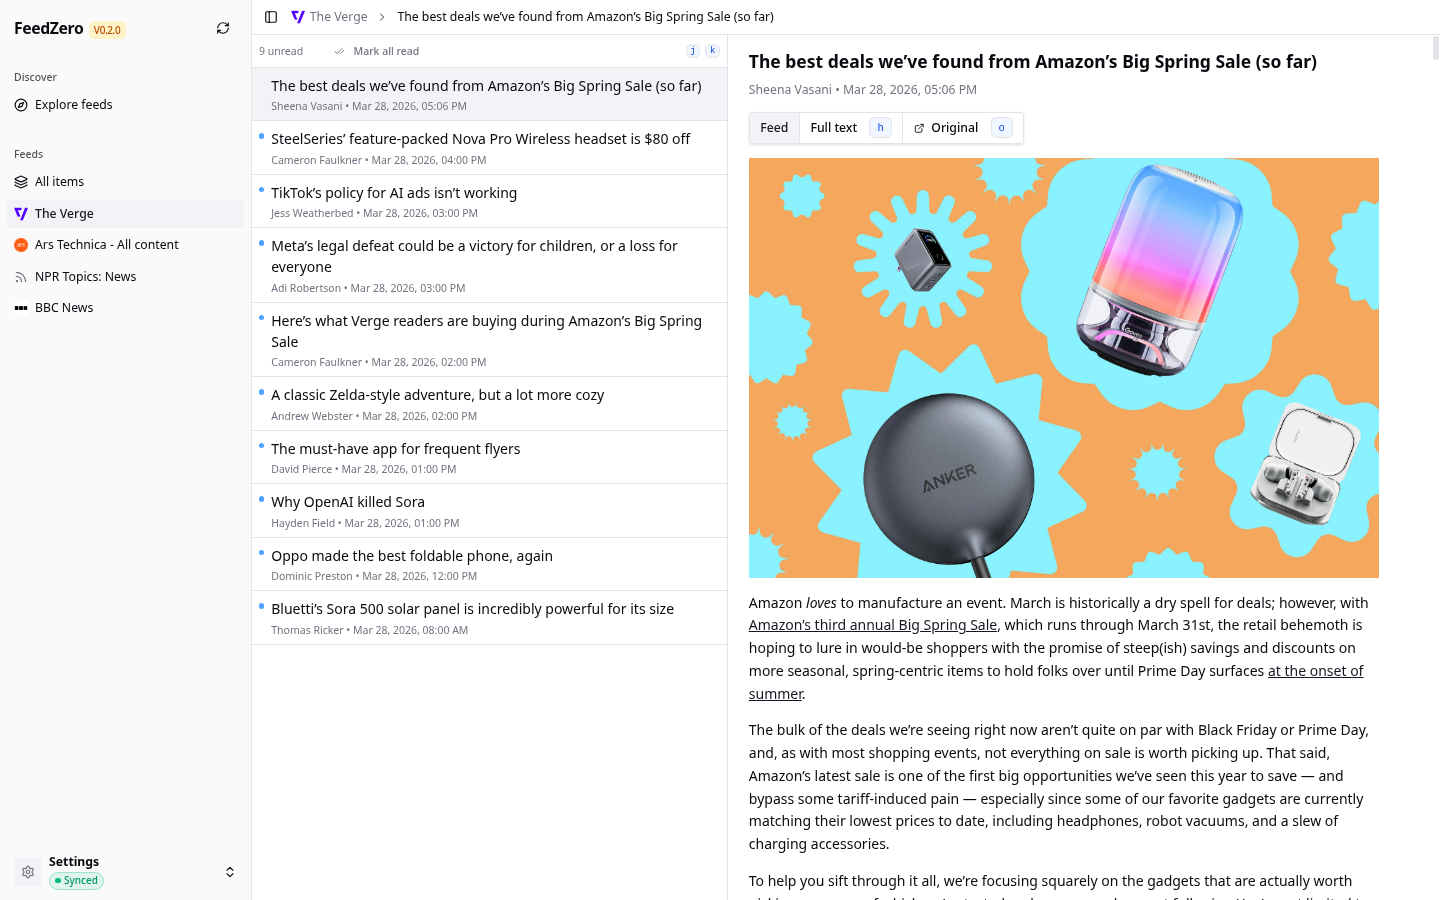
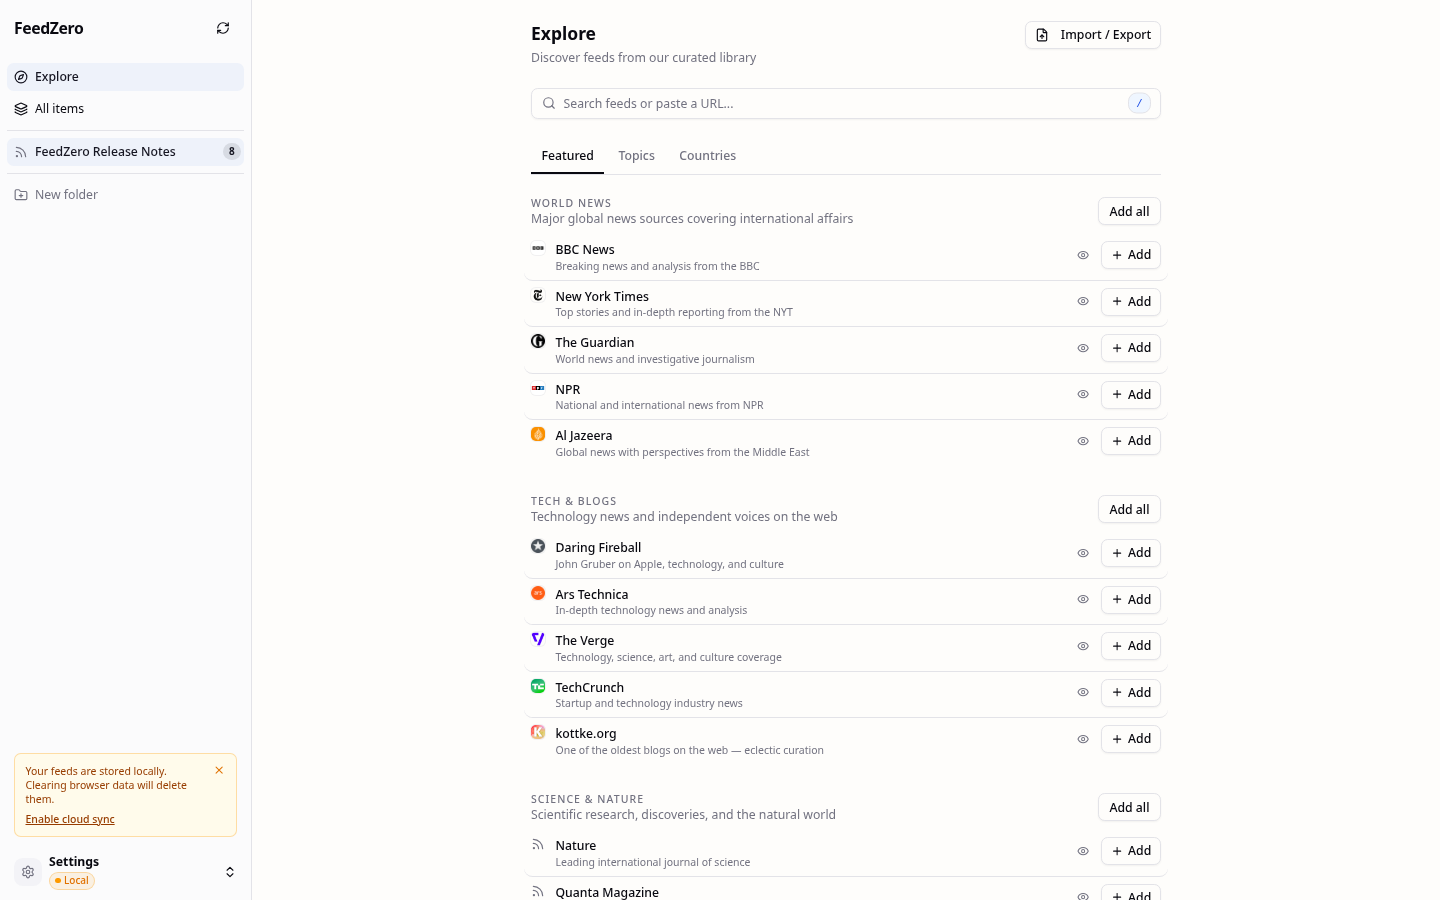
chore: fresh screenshot, rounded corners + shadow, bump version to 0.5.0
- screenshot.png: recaptured from the current app (Explore tab)
- index.html: img.shot now has border-radius: 12px and a subtle
  box-shadow. Version bumped from 0.4.0 to 0.5.0 in the About text.
- take-screenshot.mjs: updated selectors (heading "Explore" not
  "Explore feeds"), removed stale changelog localStorage key.

diff --git a/index.html b/index.html
@@ -112,7 +112,9 @@
             display: block;
             width: 100%;
             height: auto;
-            border: 1px solid #ddd;
+            border: 1px solid #e5e7eb;
+            border-radius: 12px;
+            box-shadow: 0 4px 24px rgba(0, 0, 0, 0.08), 0 1px 4px rgba(0, 0, 0, 0.04);
             margin: 1.5rem 0;
         }
         .nav {
@@ -715,7 +717,7 @@
             FeedZero is a feed reader that runs in your browser. There is no account to create — you open it and start reading. There are no third-party trackers, no ads, and no data sold to anyone. Everything is stored on your device, encrypted. If you want to read on multiple devices, cloud sync is free and anonymous: a short passphrase is all you need, and the server cannot see your data.
         </p>
         <p>
-            It is built to be fast. Feeds are cached in memory, keyboard shortcuts cover every action, and there are no loading screens between articles. Free, open source (MIT license), currently in alpha (v0.4.0).
+            It is built to be fast. Feeds are cached in memory, keyboard shortcuts cover every action, and there are no loading screens between articles. Free, open source (MIT license), currently in alpha (v0.5.0).
         </p>
     </section>
 